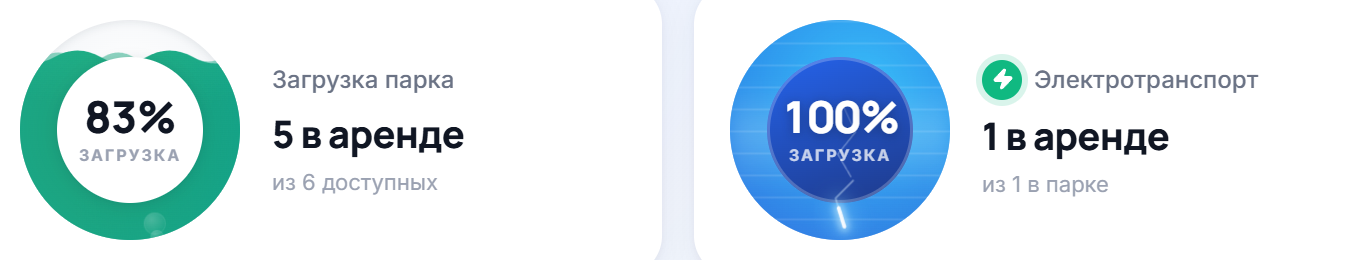
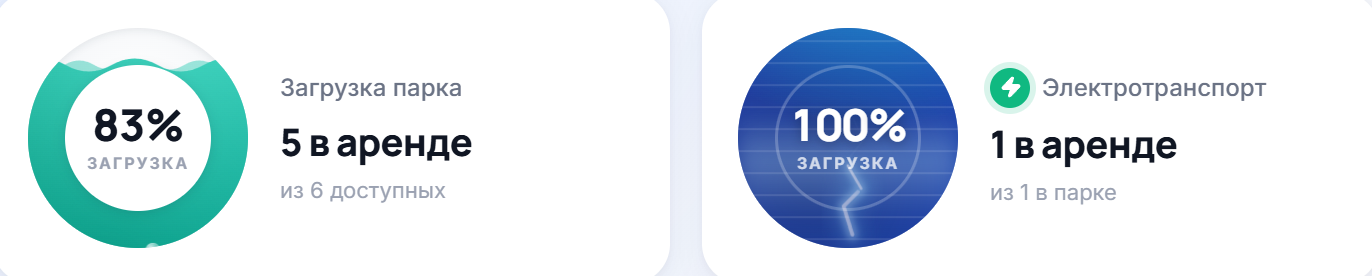
style(дашборд): пузырьки разнесены к краям круга — из середины их закрывал центр доната
+ детерминированный кадр для лендинга: анимации замораживаются на пике
вспышки разряда и середине подъёма пузырьков, иначе эффект попадал в
кадр как повезёт.

Changed region(s): [[0.5265, 0.0615, 0.9292, 0.9231], [0.0, 0.1846, 0.3407, 0.9231], [0.0, 0.9846, 0.031, 1.0]]

diff --git a/apps/web/src/pages/dashboard/LiquidGradient.tsx b/apps/web/src/pages/dashboard/LiquidGradient.tsx
@@ -11,13 +11,17 @@
 
 /** Пузырьки: разный размер, скорость и снос вбок — иначе видно «строй». */
 const BUBBLES = [
-  { left: 22, size: 7, dur: 5.2, delay: 0, drift: 5 },
-  { left: 38, size: 4, dur: 4.1, delay: 1.6, drift: -4 },
-  { left: 52, size: 9, dur: 6.4, delay: 0.7, drift: 6 },
-  { left: 64, size: 5, dur: 4.6, delay: 2.4, drift: -5 },
-  { left: 78, size: 6, dur: 5.6, delay: 3.3, drift: 4 },
-  { left: 30, size: 3, dur: 3.6, delay: 2.9, drift: 3 },
-  { left: 70, size: 3.5, dur: 4.0, delay: 1.1, drift: -3 },
+  // Позиции разнесены к краям: середину круга закрывает белый центр доната,
+  // и пузырьки оттуда просто не видно (кроме случая полной заливки, когда
+  // центр прозрачный — под это оставлена пара штук по середине).
+  { left: 11, size: 7, dur: 5.2, delay: 0, drift: 5 },
+  { left: 19, size: 4, dur: 4.1, delay: 1.6, drift: -4 },
+  { left: 27, size: 5.5, dur: 6.4, delay: 0.7, drift: 6 },
+  { left: 47, size: 6, dur: 5.0, delay: 2.2, drift: -5 },
+  { left: 57, size: 3.5, dur: 4.4, delay: 3.6, drift: 4 },
+  { left: 73, size: 5, dur: 4.6, delay: 2.4, drift: -5 },
+  { left: 81, size: 6.5, dur: 5.6, delay: 3.3, drift: 4 },
+  { left: 89, size: 3.5, dur: 3.9, delay: 1.1, drift: -3 },
 ];
 
 export default function LiquidGradient() {
